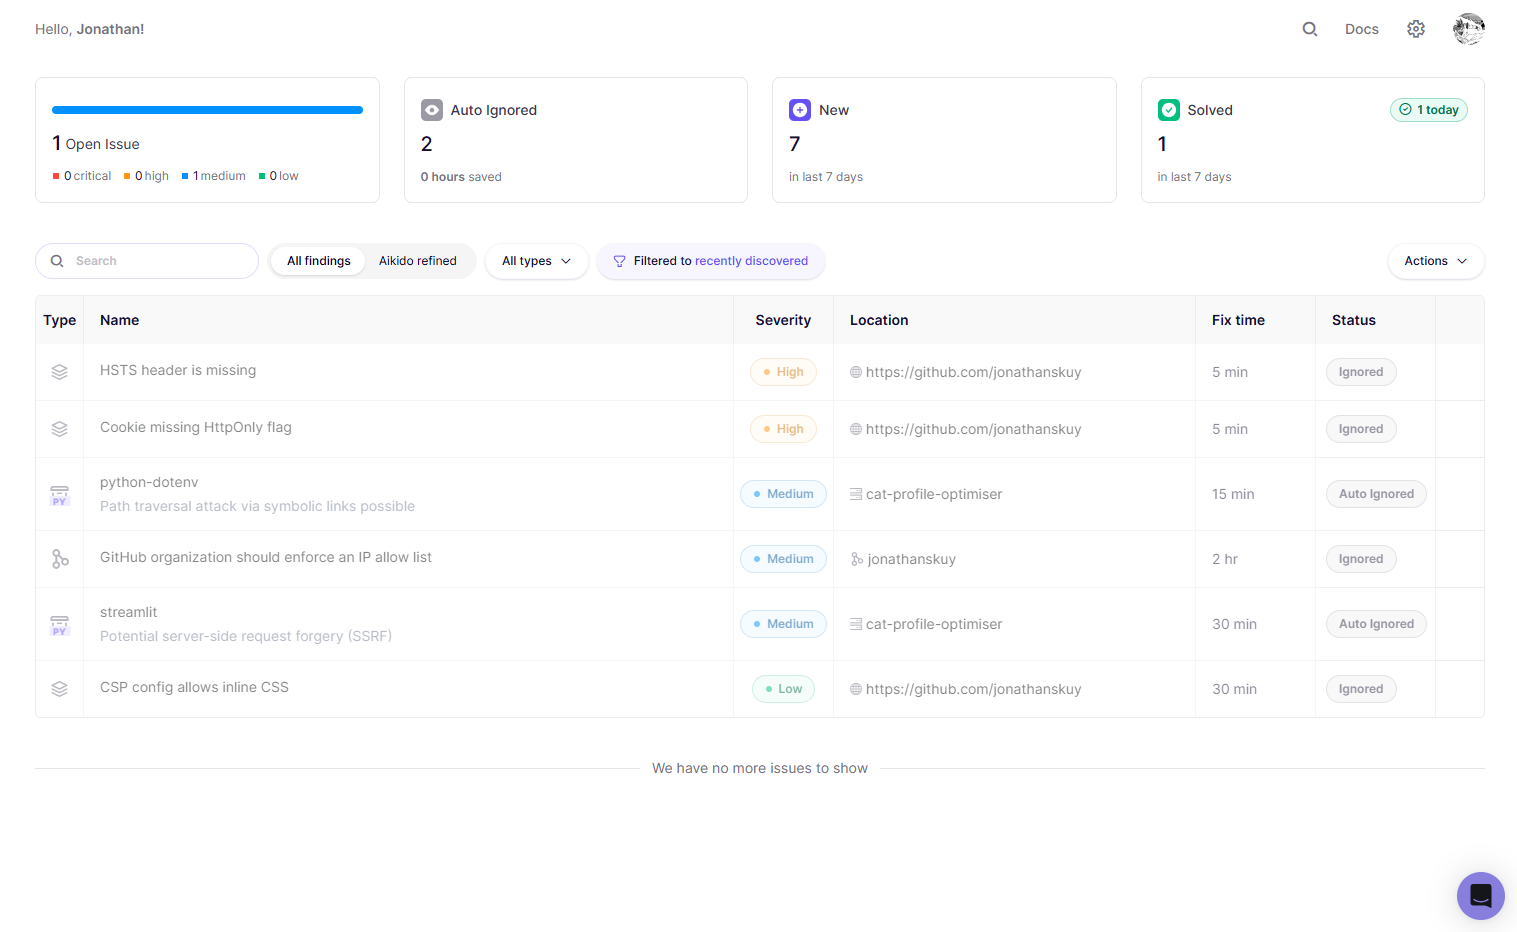
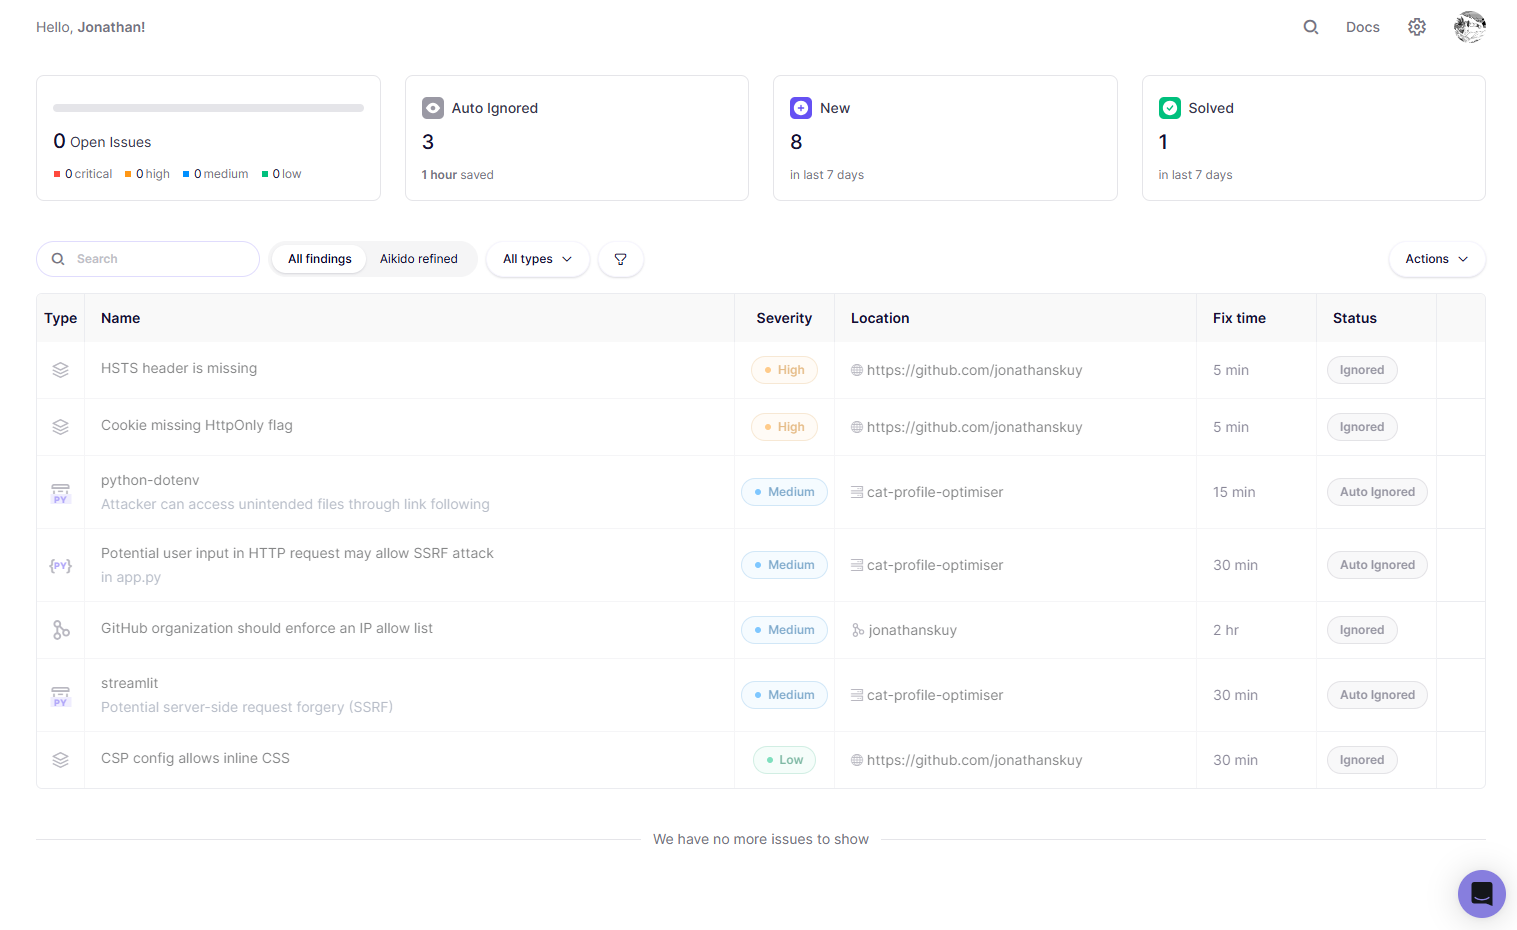
Finalize docs and security triage for submission

diff --git a/documentation/SECURITY.md b/documentation/SECURITY.md
@@ -50,7 +50,7 @@ The repository was connected to [Aikido](https://www.aikido.dev/) and scanned (S
 | Critical findings | 0 |
 | High findings | 0 |
 | Secrets detected | 0 |
-| Medium findings (project code) | 1 - fixed (see below) |
+| Medium findings (project code) | 2 - fixed/reviewed (see below) |
 | Dependency advisories | 2 - reviewed, auto-ignored as non-applicable |
 
 ### Project-code findings & resolutions
@@ -64,6 +64,10 @@ The repository was connected to [Aikido](https://www.aikido.dev/) and scanned (S
 
 3. **`streamlit` | potential SSRF (Medium, dependency advisory).**
    *Resolution:* **Reviewed, accepted.** Auto-ignored by Aikido. The app makes no server-side requests to user-controlled URLs, so the advisory doesn't apply to how Streamlit is used here.
+
+4. **`app.py` — potential SSRF in the Gemini API call (Medium, SAST).**
+   Aikido flagged the outbound HTTP request in `call_gemini_api()`, where the request URL is built from a variable.
+   *Resolution:* **Reviewed, accepted.** The request URL is the hardcoded Google Gemini API endpoint (or an operator-set `GEMINI_API_URL` environment variable) — it is never derived from user input, so there is no user-controlled path to the request and SSRF is not exploitable. Marked accepted in Aikido with this justification.
 
 ### Account-surface findings (out of scope for this project)
 